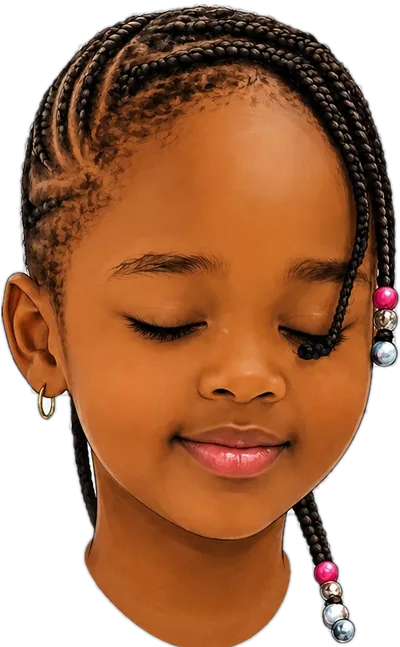
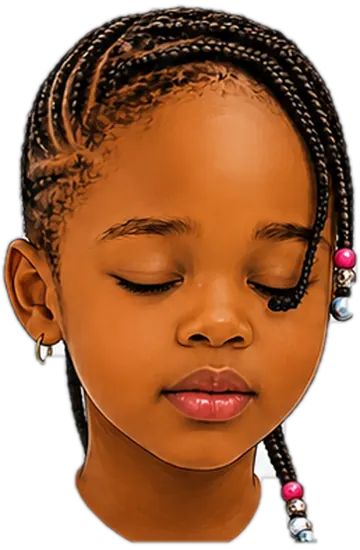
Add files via upload
MISE A JOUR

diff --git a/index.html b/index.html
@@ -510,20 +510,32 @@ html.lite .pouf{animation-duration:.45s;}
 .guide-vise{outline:3px solid #FFD86A !important;outline-offset:2px;
   box-shadow:0 0 24px rgba(255,216,106,.8) !important;z-index:60;}
 
-/* Rara. Les trois portraits sont empilés au même endroit ; on ne joue que sur
+/* Rara. Tous les portraits sont empilés au même endroit ; on ne joue que sur
    l'opacité, ce qui ne coûte rien au processeur. */
 .rara-photo{position:relative;display:block;width:100%;}
 .rara-photo img{display:block;width:100%;height:auto;}
-.rara-photo .rp-clos,.rara-photo .rp-parle{position:absolute;inset:0;opacity:0;pointer-events:none;}
-/* le clin d'œil */
+.rara-photo .rp-clos,.rara-photo .rp-m{position:absolute;inset:0;opacity:0;pointer-events:none;}
 .rara-photo .rp-clos{animation:raraCligne 5.6s infinite;}
 @keyframes raraCligne{0%,93%,100%{opacity:0} 94.4%,96.6%{opacity:1}}
-/* la bouche, seulement pendant qu'elle parle */
-.rara-photo.parle .rp-parle{animation:raraParle .30s steps(1,end) infinite;}
-@keyframes raraParle{0%,45%{opacity:0} 46%,100%{opacity:1}}
+/* Les six bouches défilent sur 1,08 s — six huitièmes de seconde chacune, avec des
+   durées inégales pour que ça ne batte pas la mesure. */
+.rara-photo.parle .rp-m{animation-duration:1.08s;animation-iteration-count:infinite;
+  animation-timing-function:steps(1,end);}
+.rara-photo.parle .rp-m1{animation-name:vm1;}
+.rara-photo.parle .rp-m2{animation-name:vm2;}
+.rara-photo.parle .rp-m3{animation-name:vm3;}
+.rara-photo.parle .rp-m4{animation-name:vm4;}
+.rara-photo.parle .rp-m5{animation-name:vm5;}
+.rara-photo.parle .rp-m6{animation-name:vm6;}
+@keyframes vm1{0%,13%{opacity:1} 14%,100%{opacity:0}}
+@keyframes vm2{0%,27%{opacity:0} 28%,40%{opacity:1} 41%,100%{opacity:0}}
+@keyframes vm3{0%,47%{opacity:0} 48%,56%{opacity:1} 57%,100%{opacity:0}}
+@keyframes vm4{0%,14%{opacity:0} 15%,26%{opacity:1} 27%,100%{opacity:0}}
+@keyframes vm5{0%,62%{opacity:0} 63%,76%{opacity:1} 77%,100%{opacity:0}}
+@keyframes vm6{0%,80%{opacity:0} 81%,92%{opacity:1} 93%,100%{opacity:0}}
 .rara-photo.parle .rp-clos{animation:none;opacity:0;}
-html.lite .rara-photo .rp-clos,html.lite .rara-photo.parle .rp-parle{animation:none;}
-@media (prefers-reduced-motion: reduce){ .rara-photo .rp-clos,.rara-photo.parle .rp-parle{animation:none;} }
+html.lite .rara-photo .rp-clos,html.lite .rara-photo.parle .rp-m{animation:none;}
+@media (prefers-reduced-motion: reduce){ .rara-photo .rp-clos,.rara-photo.parle .rp-m{animation:none;} }
 
 /* ══ L'accueil de Rara : son visage remplit l'écran ══ */
 .rara-ov{position:fixed;inset:0;z-index:10000;display:none;flex-direction:column;
@@ -4488,7 +4500,7 @@ function demarrer(){
   mainJ = tireNormales(dn).concat(ds.splice(0,SPEC_PAR_MAIN));
   mainIA= tireNormales(dn).concat(ds.splice(0,SPEC_PAR_MAIN));
   trier(mainJ);
-  T=tableVide(); resetFeux(); resetFumee(); guideFeuxVus=[]; guideUrgence=false; tour=0; sel=null; sel2=null; attend2=false; fini=false; locked=false; histo=[]; prevOwners={};
+  T=tableVide(); resetFeux(); resetFumee(); guideFeuxVus=[]; guideUrgence=false; guideDebutManche(); tour=0; sel=null; sel2=null; attend2=false; fini=false; locked=false; histo=[]; prevOwners={};
   guideOn=true;
   fermerOverlays();
   document.getElementById("niveauBadge").textContent = NIVEAU.emb+" "+NIVEAU.label;
@@ -4779,7 +4791,7 @@ addEventListener("resize", ()=>{ try{ _kActuel=0; _ajRangs=-1; ajusteMain(true);
    Sans marqueur visible, ni le joueur ni le testeur ne savent ce qu'ils jouent, et le
    développeur ne peut pas le lire sur une capture. On a perdu une journée à s'en douter.
    À bumper AVEC le CACHE de sw.js — les deux doivent toujours dire la même chose. */
-const BUILD_TAG = "cases-v121";
+const BUILD_TAG = "cases-v126";
 
 const CLE_LITE = "qc_eq_lite";
 let liteOn = false;
@@ -5075,7 +5087,13 @@ async function brulerUne(main, i, mz, msg){
      figé sur une main vide, avec un message qui attendait un geste impossible. */
   try{
     if(finiePartie()){ terminer(); return; }
-    if(main === mainJ && !mainJ.length && !fini) lancerIA();
+    if(!fini){
+      /* La main vidée doit faire avancer le tour, des DEUX côtés. Je n'avais traité que
+         le joueur 1 : quand le joueur 2 brûlait sa dernière carte, plus rien ne se
+         passait et la partie restait figée sur « Au joueur 2 ». */
+      if(main === mainJ  && !mainJ.length)  lancerIA();
+      else if(main === mainIA && !mainIA.length){ attend2 = false; finTourAdverse(); }
+    }
   }catch(e){}
 }
 function choisir(i){
@@ -6091,7 +6109,7 @@ function netDealManche(){
   mainJ = tireNormales(dn).concat(ds.splice(0,SPEC_PAR_MAIN));   // hôte = joueur 1
   mainIA= tireNormales(dn).concat(ds.splice(0,SPEC_PAR_MAIN));   // invité = joueur 2
   trier(mainJ);
-  T=tableVide(); resetFeux(); resetFumee(); guideFeuxVus=[]; guideUrgence=false; tour=0; sel=null; sel2=null; attend2=false; fini=false; locked=false; histo=[]; prevOwners={};
+  T=tableVide(); resetFeux(); resetFumee(); guideFeuxVus=[]; guideUrgence=false; guideDebutManche(); tour=0; sel=null; sel2=null; attend2=false; fini=false; locked=false; histo=[]; prevOwners={};
   guideOn=true;
   const hoteOuvre = (mancheNo % 2 === 1);          // alternance : hôte ouvre les manches impaires
   NET.aQui = hoteOuvre ? 'host' : 'guest';
@@ -6601,15 +6619,21 @@ function cori(x, y, r, a){
 }
 /* une tresse : un cordon sombre, texturé, avec un cori au bout */
 function raraVisage(){
-  /* Trois portraits entiers, empilés et recalés au pixel près : le repos, le clin d'œil,
-     la bouche ouverte. On les échange au lieu de coller des bandes — le générateur ayant
-     légèrement changé la pose à chaque image, une découpe par morceaux se serait vue. */
-  const img = (cl, f, alt) => '<img class="' + cl + '" src="./' + f + '" alt="' + alt + '"'
+  /* Huit portraits empilés : le repos, les yeux fermés, et six formes de bouche —
+     les visèmes A, O, I, M et deux ouvertures intermédiaires. Pendant qu'elle parle,
+     on les fait défiler dans un ordre irrégulier : c'est l'irrégularité qui fait
+     croire à de la parole, une alternance régulière ferait mâchoire mécanique. */
+  const img = (cl, f) => '<img class="' + cl + '" src="./' + f + '" alt=""'
     + ' onerror="this.style.display=\'none\'"/>';
   return '<div class="rara-photo">'
-       + img('rp-base',   'accueil.webp',        'Rara')
-       + img('rp-clos',   'accueil-yeux.webp',   '')
-       + img('rp-parle',  'accueil-bouche.webp', '')
+       + '<img class="rp-base" src="./accueil.webp" alt="Rara" onerror="this.closest(\'.rara-photo\').style.display=\'none\'"/>'
+       + img('rp-clos', 'accueil-yeux.webp')
+       + img('rp-m rp-m1', 'accueil-a.webp')
+       + img('rp-m rp-m2', 'accueil-o.webp')
+       + img('rp-m rp-m3', 'accueil-i.webp')
+       + img('rp-m rp-m4', 'accueil-b.webp')
+       + img('rp-m rp-m5', 'accueil-c.webp')
+       + img('rp-m rp-m6', 'accueil-m.webp')
        + '</div>';
 }
 function raraBouche(actif){
@@ -6875,16 +6899,24 @@ const GUIDE_VOIX = {
   "…ou là"           : "ou bien là.",
   "L'orage !"        : "Fais tomber l'orage !"
 };
-let _ditQuoi = '', _ditQuand = 0;
+/* Elle ne bloquait que la phrase PRÉCÉDENTE. Comme elle balaie entre deux cibles, ses
+   deux consignes redevenaient « nouvelles » à chaque aller-retour et elle tournait en
+   boucle. Deux verrous maintenant : chaque phrase a sa propre mémoire de douze secondes,
+   et elle ne dit pas plus de deux phrases par sortie. Montrer est son métier ; parler
+   n'est qu'un appoint. */
+const _ditVu = Object.create(null);
+let _ditQuand = 0, _ditNb = 0;
+function guideDireReset(){ _ditNb = 0; }
 function guideDire(txt){
   if(!txt) return;
   let dit = false;
   try{ dit = !!voixOn; }catch(e){}
   if(!dit) return;
   const t = Date.now();
-  if(txt === _ditQuoi && t - _ditQuand < 10000) return;   // elle ne se répète pas
-  if(t - _ditQuand < 2200) return;                        // ni ne parle par-dessus elle-même
-  _ditQuoi = txt; _ditQuand = t;
+  if(_ditNb >= 2) return;                                  // deux phrases, pas davantage
+  if(_ditVu[txt] && t - _ditVu[txt] < 12000) return;       // cette phrase-là a déjà été dite
+  if(t - _ditQuand < 2200) return;                         // pas par-dessus elle-même
+  _ditVu[txt] = t; _ditQuand = t; _ditNb++;
   try{ parle(GUIDE_VOIX[txt] || txt); }catch(e){}
 }
 function guideEteindreVise(){
@@ -6912,6 +6944,15 @@ function guideViser(){
 function guideStopViser(){ clearTimeout(guideViseT); guideEteindreVise(); guideEls = []; guideTextes = []; guideIdx = 0; }
 /* On quitte le plateau : elle disparaît sur-le-champ, sans courir vers une porte
    qui n'existe plus. */
+/* Elle n'attend plus qu'on s'ennuie : dès qu'une manche s'ouvre, elle vient montrer
+   la première carte. Neuf dixièmes de seconde — le temps que le plateau se pose et que
+   les cartes finissent d'arriver. */
+function guideDebutManche(){
+  try{
+    clearTimeout(guideT);
+    guideT = setTimeout(function(){ try{ guideSortir(); }catch(e){} }, 900);
+  }catch(e){}
+}
 function guideCacheNet(){
   guideStopViser();
   clearTimeout(guideT); clearTimeout(guideRentreT);
@@ -7055,6 +7096,7 @@ function guideSortir(){
   guideRentreT = setTimeout(function(){
     const gg = guideEl(); if(!gg) return;
     gg.classList.remove('court');
+    guideDireReset();
     guideEls = cib.els; guideTextes = cib.textes; guideIdx = 0; guideViser();
     /* recalage : si le rendu a bougé d'un cheveu pendant la course, le doigt se remet
        en place tout seul au lieu de rester à côté */
@@ -7070,7 +7112,7 @@ function guideSortir(){
 function guideRentrer(){
   const g = guideEl(); if(!g || !guideSorti) return;
   guideStopViser();
-  _ditQuoi = '';                        // elle repart de zéro : au prochain geste elle pourra le redire
+  guideDireReset();                     // sortie terminée : son quota de paroles repart à zéro
   const b = document.getElementById('guideBras'); if(b) b.style.width = '8px';
   const porte = guidePorte();
   g.classList.add('court');
@@ -7087,8 +7129,19 @@ function guideRentrer(){
 /* Toute action remet le compte à zéro : elle ne sort qu'après trois secondes
    d'immobilité — SAUF si un feu vient de se déclarer, auquel cas elle accourt. */
 let guideFeuxVus = [], guideUrgence = false;
+/* Filet de sécurité, vérifié à chaque rendu : si le jeu attend un geste de quelqu'un
+   qui n'a plus de cartes, il débloque tout seul. Deux blocages différents sont déjà
+   passés par là ; celui-ci les rattrape quelle qu'en soit la cause. */
+function guideDebloque(){
+  try{
+    if(fini || locked) return;
+    if(DUO && attend2 && !mainIA.length){ attend2 = false; finTourAdverse(); return; }
+    if(!attend2 && !mainJ.length && !finiePartie()) lancerIA();
+  }catch(e){}
+}
 function guideActivite(surRendu){
   clearTimeout(guideT);
+  try{ guideDebloque(); }catch(e){}
   if(!guideEnPartie()){ guideRentrer(); guideCacheNet(); return; }
   try{
     const f = guideFeux();

diff --git a/sw.js b/sw.js
@@ -2,10 +2,10 @@
    Dépôt dédié : le cache garde tout de même un nom propre au jeu, et la purge ne
    touche que les caches commençant par ce préfixe. Bumper à chaque déploiement,
    EN MÊME TEMPS que BUILD_TAG dans index.html. */
-const CACHE = 'les4cases-v121';
+const CACHE = 'les4cases-v126';
 const PREFIXE = 'les4cases-';
 const ASSETS = ['./','./index.html','./manifest.json',
-  './accueil.webp','./accueil-yeux.webp','./accueil-bouche.webp','./icon-192.png','./icon-512.png','./icon-180.png','./icon-maskable-512.png','./favicon.ico'];
+  './accueil.webp','./accueil-yeux.webp','./accueil-a.webp','./accueil-b.webp','./accueil-c.webp','./accueil-o.webp','./accueil-i.webp','./accueil-m.webp','./icon-192.png','./icon-512.png','./icon-180.png','./icon-maskable-512.png','./favicon.ico'];
 
 /* PAS de skipWaiting ici : la nouvelle version doit ATTENDRE, sinon elle s'active
    toute seule et la page ne peut jamais proposer « Mettre à jour ». C'est le bouton
